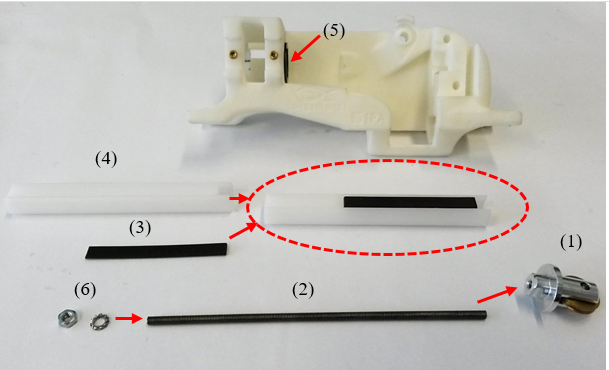
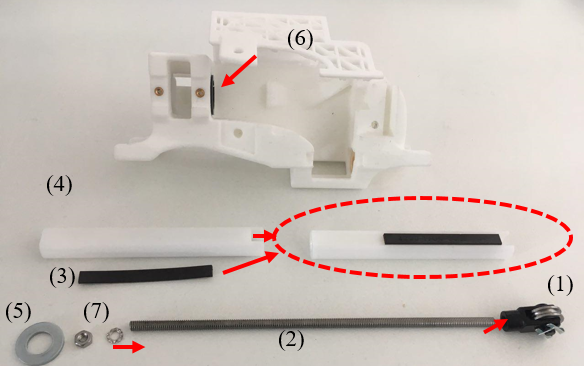
Amendments to step 2 of muscle

diff --git a/source/Assembly/D3.4_final.rst b/source/Assembly/D3.4_final.rst
@@ -2612,11 +2612,15 @@ Put the two **M2** **inserts (3)** in the holes of the housing.
 
 Put screw glue into the screw thread of the **pulley yoke** **(1)** and connect it with the **threaded rod (2).**
 
-Stick the **magnetic strip (3)** in the longitudinal groove in the **spring guide shaft (4)**. The magnetic strip should be as near as possible to the pulley yoke as you can see in the example).
+Stick the **magnetic strip (3)** in the longitudinal groove in the **spring guide shaft (4)**. The magnetic strip should be as near as possible to the pulley yoke as you can see in the example.
 
-Slide the pulley yoke with the threaded rod from the right through the clip plain bearings (5) and put it in position.
+Slide the **washer (5)** down the threaded rod to the pulley yoke.
 
-Slide the spring guide shaft from the left through the clip plain bearings so that the threaded rod passes in its middle. Fix the rod on the shaft with the **nut and washer** (6).
+Slide the pulley yoke with the threaded rod from the right through the **clip plain bearings (6)** and put it in position.
+
+Slide the spring guide shaft from the left through the clip plain bearings so that the threaded rod passes in its middle. Fix the rod on the shaft with the **nut and washer (7)**.
+
+
 
 **Step 3: Assemble the cross-guide**
 
